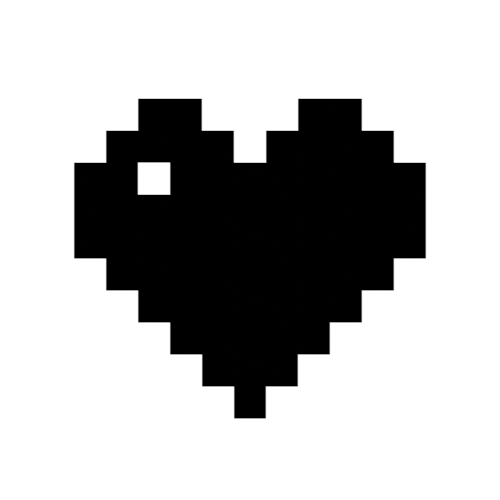
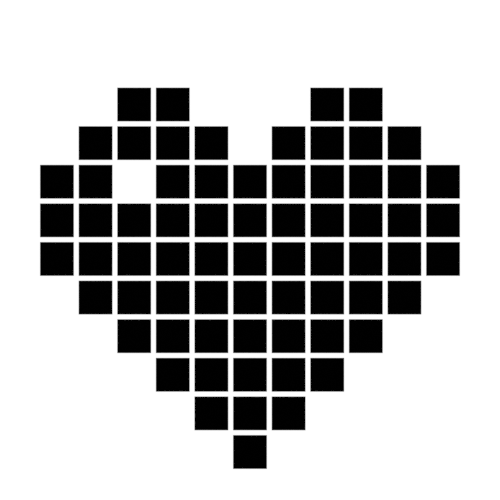
adds more examples to lesson3

Changed region(s): [[0.06, 0.15, 0.93, 0.96]]

diff --git a/source/lessons/lesson3.rst b/source/lessons/lesson3.rst
@@ -352,6 +352,8 @@ Elements who are similar to each other will more likely be perceived as as belon
 
 .. image:: ../_static/images/design_gp_similarity_001.png
    :width: 300
+.. image:: ../_static/images/design_gp_similarity_002.png
+   :width: 300
 
 Law of Symmetry
 ---------------
